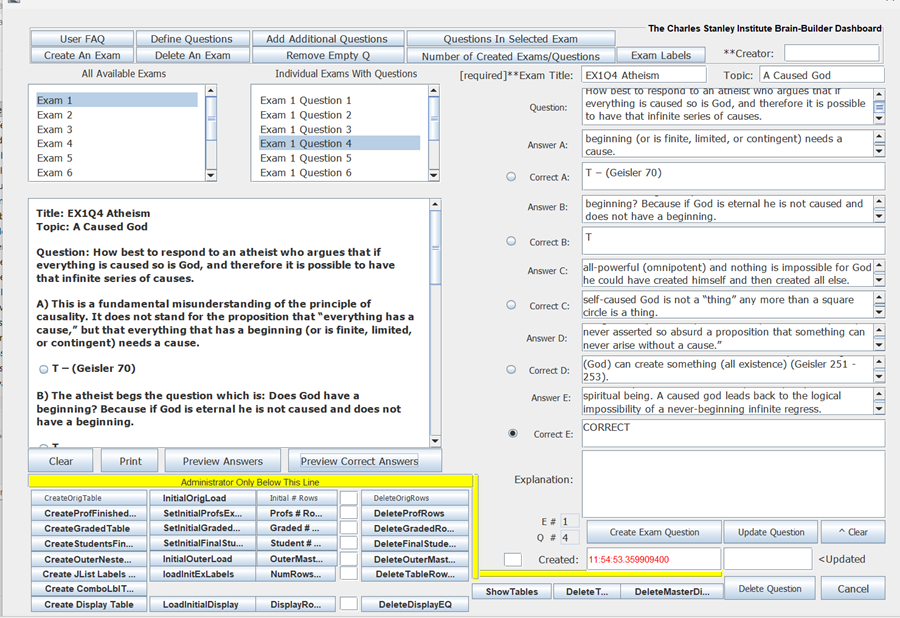
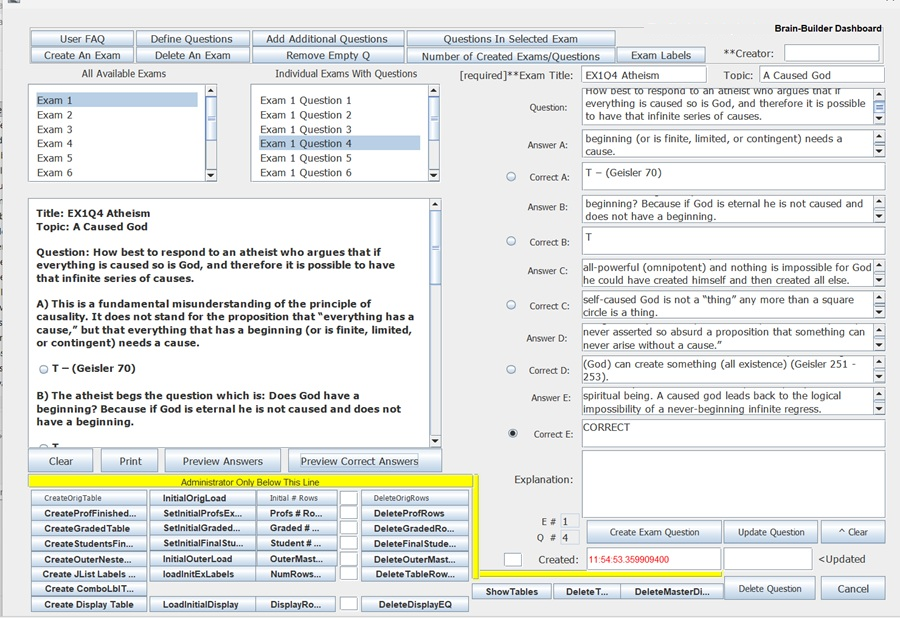
latest jar 10-15-26 plus more

diff --git a/index.html b/index.html
@@ -12,7 +12,8 @@
 
         <header>
             <h1>Applications Portfolio</h1>
-            <p>A collection of software development projects listed in reverse 
+            <img src="images/mksNameEmail.png" alt="mksNameEmail" class="staticComtactInfo">
+            <p class="headPara">A collection of software development projects listed in reverse 
             chronological order, from most recent to earliest.</p>
         </header>
 
@@ -55,7 +56,7 @@
                         <td>
                             <h3>Flashcard Q&A Builder</h3>
                             <p>The second of two online applications which builds the flashcards and questions/answers. Companion to the 
-                            Mustard Seed flashcard flipper. Not a "student project."</p>
+                            Mobile Mustard Seed flashcard app. Not a "student project."</p>
                             <div class="links">
                                 <a href="https://flashcards-wwxk.onrender.com/cardmaker/" target="_blank" class="btn">Live Web App</a>
                                 <a href="https://github.com/anothermark/flashcards" target="_blank" class="btn btn-secondary">View Source Code</a>
@@ -75,7 +76,7 @@
                             <p>A Swing stand-alone application using an embedded h2 database which works in conjunction with
                             the Brain Builder app whereby students take and review exams. Not a "student project."</p>
                             <div class="links">                                
-                                <a href="https://github.com/anothermark/braintester/releases/download/v1.2.0/BrainTester9-23-A.jar" target="_blank" class="btn">Download JAR File</a>
+                                <a href="https://github.com/anothermark/braintester/releases/download/v1.2.0/BrainTester9-23-A.jar" target="_blank" class="btn">Download Desktop JAR File</a>
                                 <a href="https://github.com/anothermark/braintester" target="_blank" class="btn btn-secondary">View Source Code</a>
                             </div>
                         </td>
@@ -94,7 +95,7 @@
                             <p>The "Brain Builder" application which creates Questions and Answers for exams, using an embedded h2 database which works in conjunction with
                             the Brain Tester app. Not a "student project."</p>
                             <div class="links">                                                                
-                                <a href="https://github.com/anothermark/brainbuilder/releases/download/v1.2.0/BrainBuilder9-23-A.jar" target="_blank" class="btn">Download JAR File</a>
+                                <a href="https://github.com/anothermark/brainbuilder/releases/download/v1.2.0/BrainBuilder9-23-A.jar" target="_blank" class="btn">Download Desktop JAR File</a>
                                 <a href="https://github.com/anothermark/brainbuilder" target="_blank" class="btn btn-secondary">View Source Code</a>
                             </div>
                         </td>
@@ -111,7 +112,7 @@
                             <h3>Student Management App</h3>
                             <p>A Swing stand-alone student management application. Not a "student project."</p>
                             <div class="links">                                                               
-                                <a href="https://github.com/anothermark/StudentManagmentApp/releases/download/v1.0.0/studmanjar-D-9-20.jar" target="_blank" class="btn">Download JAR File</a>
+                                <a href="https://github.com/anothermark/StudentManagmentApp/releases/download/v1.2.2/studmanjar-H-10-15-26.jar" target="_blank" class="btn">Download Desktop JAR File</a>
                            		<a href="https://github.com/anothermark/StudentManagmentApp" target="_blank" class="btn btn-secondary">View Source Code</a>
                             </div>
                         </td>
@@ -128,8 +129,7 @@
                         <td>
                             <h3>Calculator App</h3>
                             <p>A simple paint-by-the-numbers Swing calculator application. Not a "student project."</p>
-                            <div class="links">
-                                                               
+                            <div class="links">                                                               
                                 <a href="https://github.com/anothermark/calculator/releases/download/v1.0.0/MarksCalculator.jar" target="_blank" class="btn">Download JAR File</a>
                             </div>
                         </td>

diff --git a/style.css b/style.css
@@ -13,7 +13,7 @@ body {
     line-height: 1.6;
     margin: 0;
     padding: 20px;
-    background-color: #f4f7f6;
+    background-color: rgb(128, 64, 64);
     color: #333;
 }
 
@@ -32,11 +32,13 @@ header {
 header h1 {
     margin-top: 0;         /* Strips away default browser spacing above the main title */
     margin-bottom: 5px;    /* Tightens space between main title and subtitle */
+    color: white;
 }
 
 header p {
     margin-top: 0;         /* Tightens space above the subtitle text */
     margin-bottom: 0;
+    color: white;
 }
 
 header {
@@ -48,7 +50,7 @@ header {
 table {
     width: 100%;        /* Forces the table to expand to the full 800px container */
     border-collapse: collapse;
-    background: #fff;
+    background: rgb(211, 217, 220);
     box-shadow: 0 4px 6px rgba(0,0,0,0.1);
     border-radius: 8px;
     overflow: hidden;

diff --git a/i-img-tester.html b/i-img-tester.html
@@ -20,7 +20,7 @@
         <main>
             <!-- 1. The Large Image Container -->
             <div style="margin-bottom: 30px;">
-                <img src="images/big-braintester.jpg" 
+                <img src="images/big-braintester.png" 
                      alt="Brain Tester App Large Screenshot" 
                      style="width: 100%; max-width: 800px; height: auto; border-radius: 8px; box-shadow: 0 4px 10px rgba(0,0,0,0.15);">
             </div>
